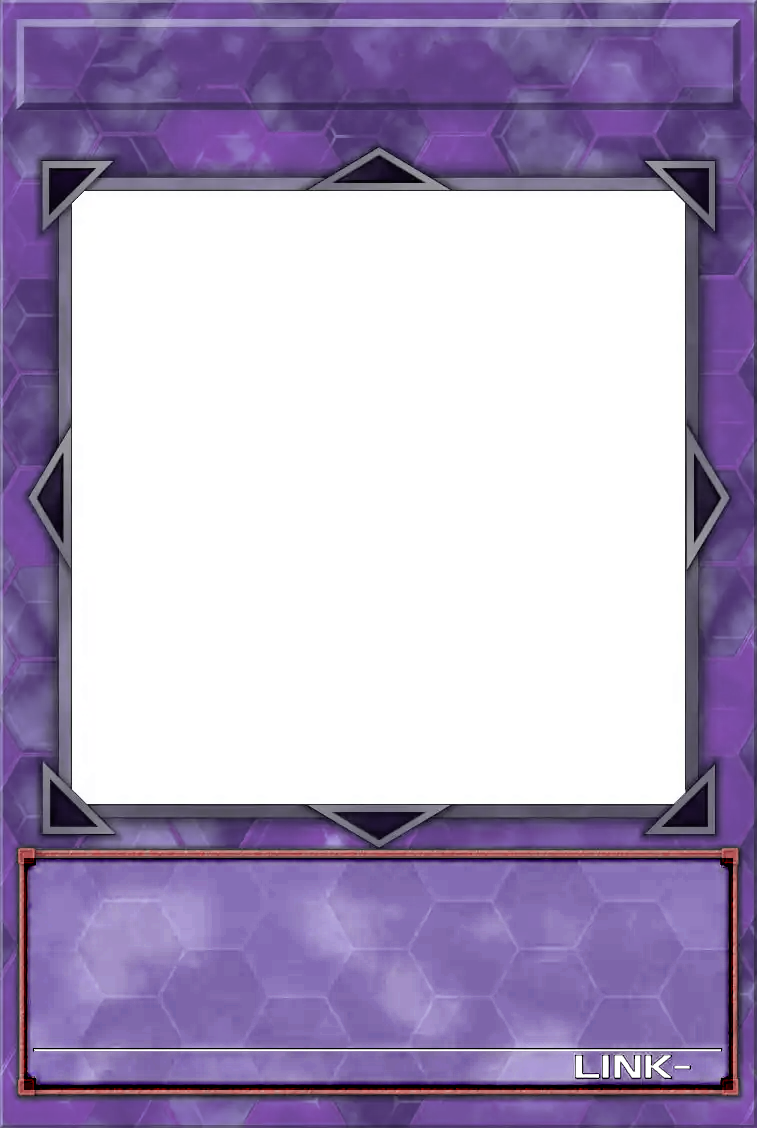
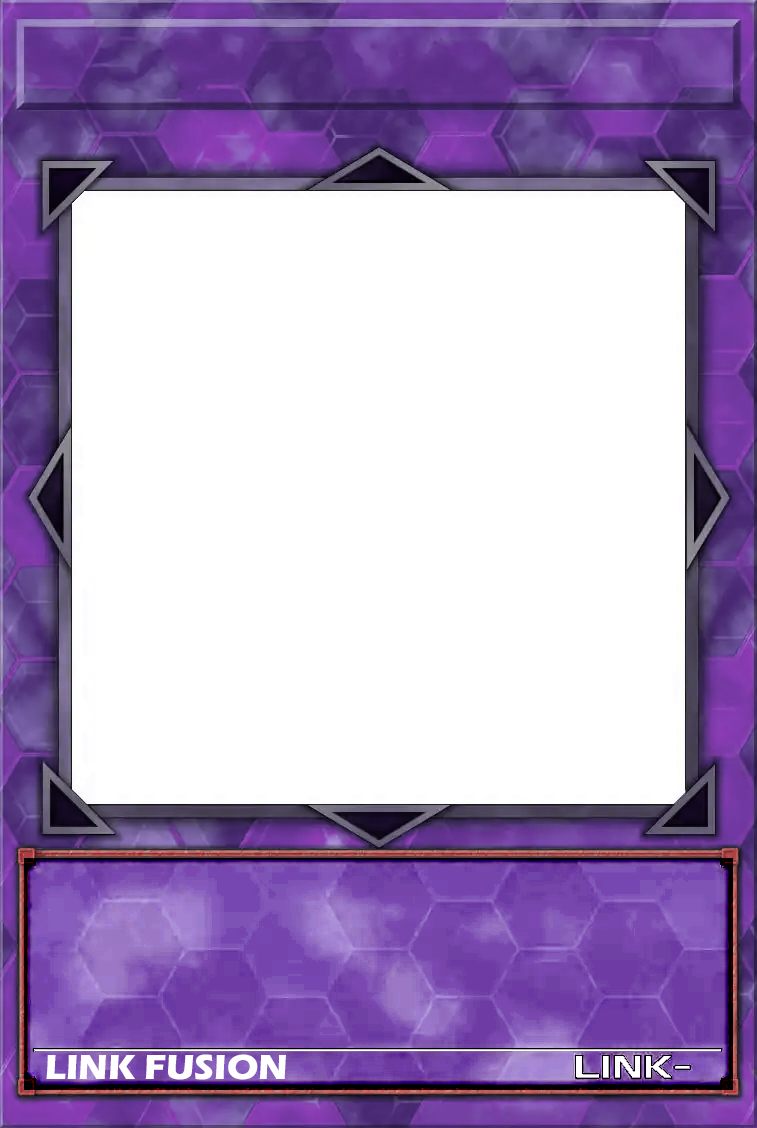
Update Link Fusions

Changed region(s): [[0.0304, 0.7447, 0.9723, 0.9619]]

diff --git a/Scripts/DB_Custom_Frames.user.js b/Scripts/DB_Custom_Frames.user.js
@@ -1,7 +1,7 @@
 // ==UserScript==
 // @name         DB_Custom_Frames
 // @namespace    http://tampermonkey.net/
-// @version      1.7.2
+// @version      1.7.3
 // @homepageURL  https://github.com/yanislavivanovyanev/YIY_YGO_Customs/
 // @updateURL    https://raw.githubusercontent.com/yanislavivanovyanev/YIY_YGO_Customs/main/Scripts/DB_Custom_Frames.user.js
 // @downloadURL  https://raw.githubusercontent.com/yanislavivanovyanev/YIY_YGO_Customs/main/Scripts/DB_Custom_Frames.user.js
@@ -14,7 +14,7 @@
 (function() {
     'use strict';
 
-    const VERSION = "v7";
+    const VERSION = "v8";
 
     const URL_START = "https://yanislavivanovyanev.github.io/YIY_YGO_Customs/";
 

diff --git a/Scripts/Custom_DB_Custom.user.js b/Scripts/Custom_DB_Custom.user.js
@@ -3,7 +3,7 @@
 // @name         Custom_DB_Custom
 
 // @description  Adds options to customize DB and make it more streamer friendly
-// @version      1.3.2
+// @version      1.3.3
 // @author       Killburne
 // @license		 MIT
 // @namespace    https://www.yugioh-api.com/
